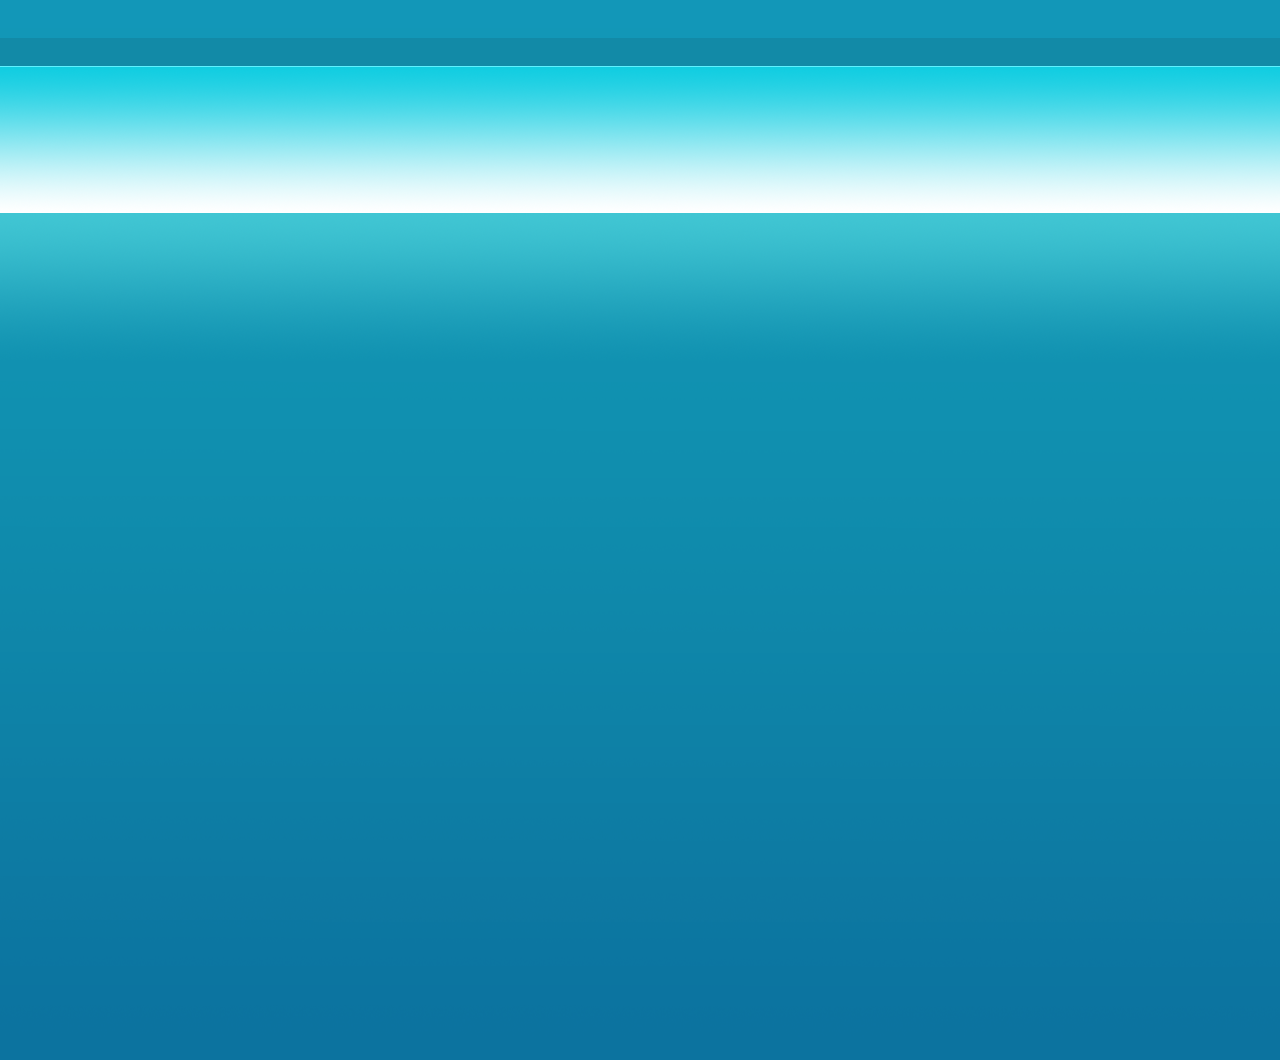
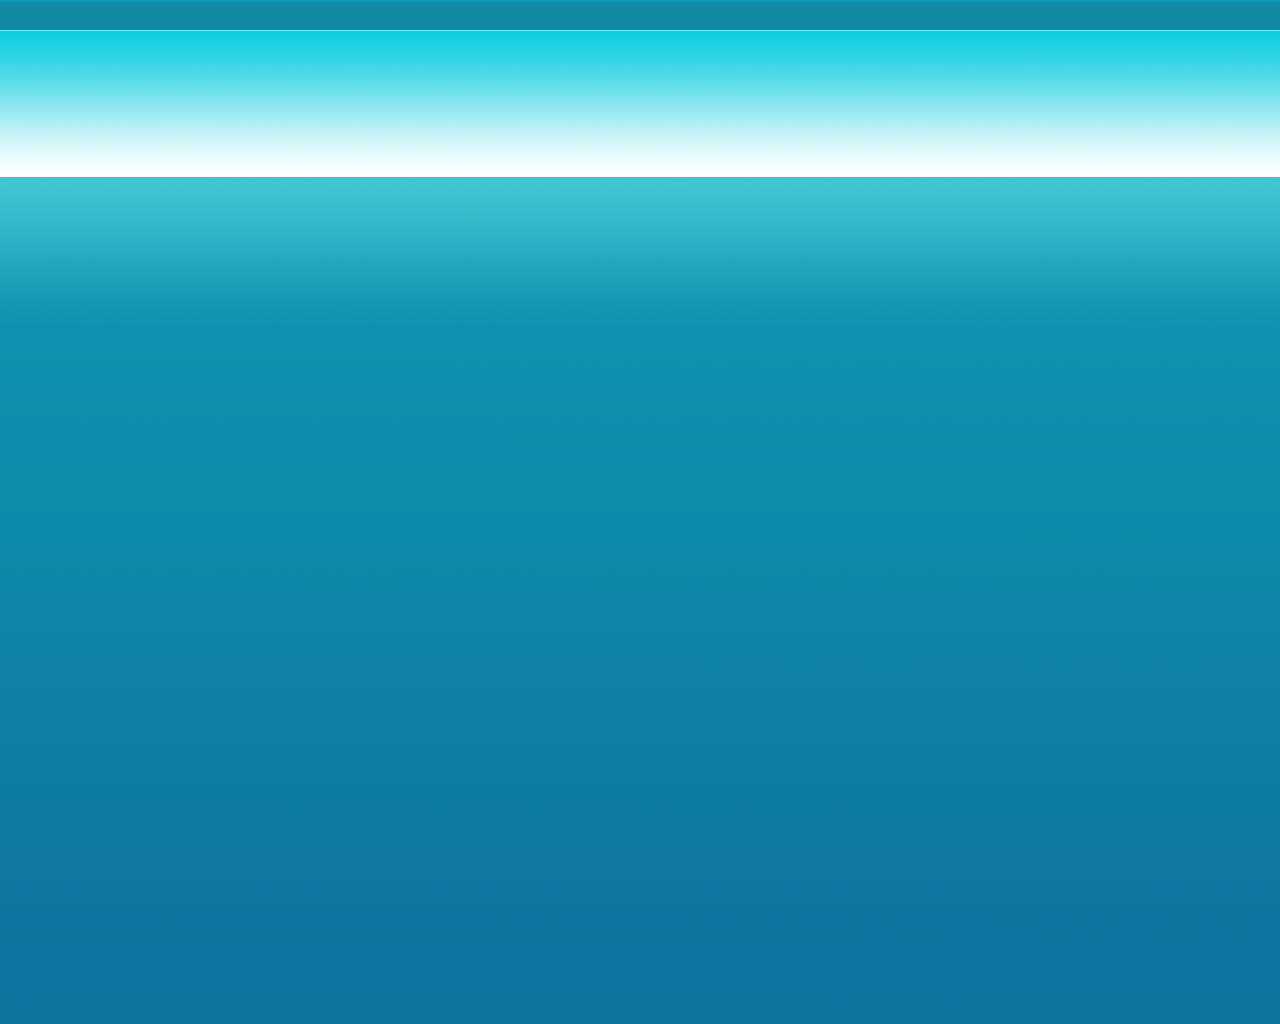
homework 4 updated

Changed region(s): [[0.0, 0.0312, 1.0, 0.2188]]

diff --git a/css/style.css b/css/style.css
@@ -4,6 +4,8 @@
 }
 body{
   background-image: url(../IMG/bg.png);
+  background-repeat: repeat-x;
+
 }
 
 .container{
@@ -12,8 +14,7 @@ body{
   height: 991px;
   margin: auto;
   display: block;
-margin-top: 40px;
-box-shadow: 0 6px 10px rgba(0, 0, 0, .5);
+box-shadow: 0 10px 15px rgba(0, 0, 0, .5);
 margin-bottom: 40px;
 }
 
@@ -77,8 +78,9 @@ z-index: 5;
 
 }
 
+
 .menuontop li{
-padding-right: 20px;
+padding-right: 17px;
 }
 
 
@@ -100,22 +102,21 @@ ul.menuontop > li {
 }
 ul.menuontop > li > a {
     display: block;
-    margin-left: 30px;
+    margin-left: 15px;
     color: white;
     text-decoration: none;
     padding-top: 5px;
-  height: 25px;
+  /*height: 25px;*/
 }
-ul.menuontop > li > a:hover {
-    background-color: black;
-}
+
 ul.submenu {
     display: none;
     position: absolute;
-    width: 120px;
+    width: 12
+    0px;
     top: 30px;
     left: 0;
-    background-color: white;
+    background-color: none;
 }
 ul.submenu > li {
     display: block;
@@ -152,6 +153,7 @@ font-family: Tahoma;
 font-size: 14px;
   float: left;
   z-index: 1;
+  padding-top: 10px;
 }
 h3{
   text-align: center;
@@ -183,6 +185,8 @@ h3{
    float: right;
    font-family: Tahoma;
    font-size: 14px;
+   padding-top: 10px;
+
 
 
 
@@ -206,6 +210,6 @@ h3{
 font-family: Tahoma;
 font-size: 12px;
 color: white;
-margin-top: 5px;
+margin-top: 10px;
 
 }

diff --git a/index.html b/index.html
@@ -89,16 +89,17 @@
 
 
 <div class="banner">
-<img src="IMG/banner.png" alt="" />
+<img class="arrow" src="IMG/banner.png" alt="" />
 </div>
 
 
 <ul class="menuontop">
+
     <li><a href="#">Главная</a></li>
-      <li><a href="#">Путешествие</a>
+      <li><a href="#">Путешествие <img src="IMG/arrow.png" alt="" /></a>
 
         <ul class="submenu">
-                    <li><a href=#>Путешествие</a></li>
+                  <li><a href=#>Путешествие</a></li>
                     <li><a href=#>Путешествие</a></li>
                     <li><a href=#>Путешествие</a></li>
                     <li><a href=#>Путешествие</a></li>
@@ -106,7 +107,7 @@
                 </ul>
 
       </li>
-      <li><a href="#">Услуги</a>
+      <li><a href="#">Услуги <img src="IMG/arrow.png" alt="" /</a>
 
         <ul class="submenu">
               <li><a href=#>Услуги</a></li>
@@ -117,7 +118,7 @@
           </ul>
 
       </li>
-      <li><a href="#">Партнерам</a>
+      <li><a href="#">Партнерам <img src="IMG/arrow.png" alt="" /</a>
         <ul class="submenu">
                     <li><a href=#>Партнерам</a></li>
                     <li><a href=#>Партнерам</a></li>
